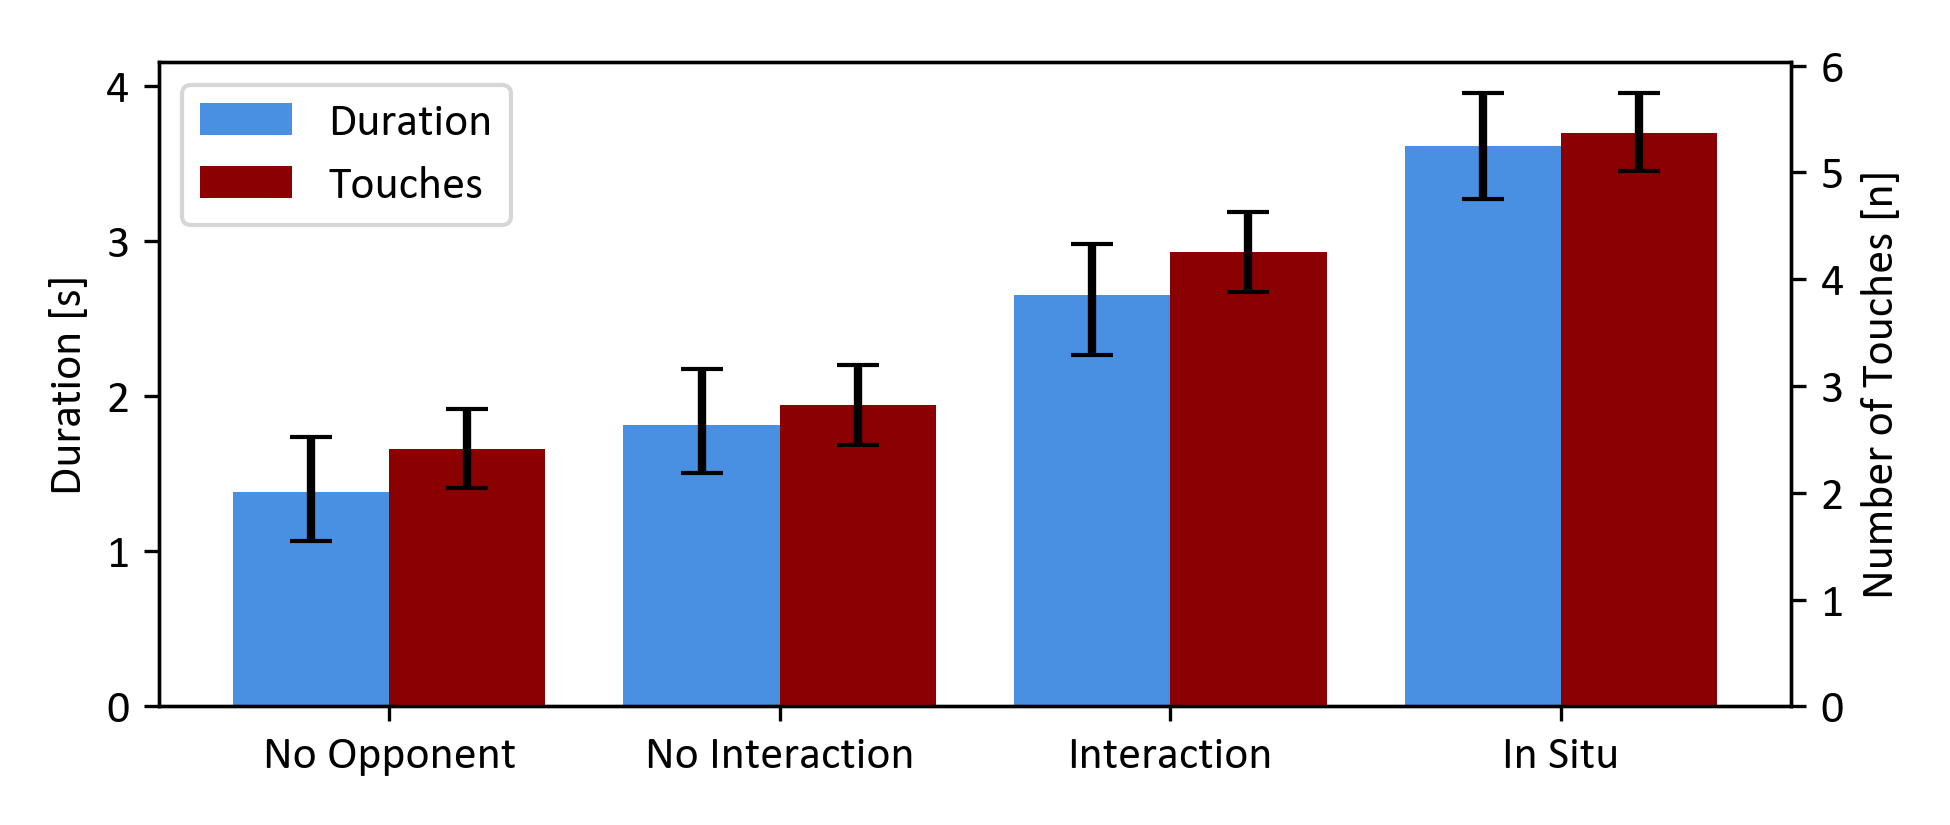
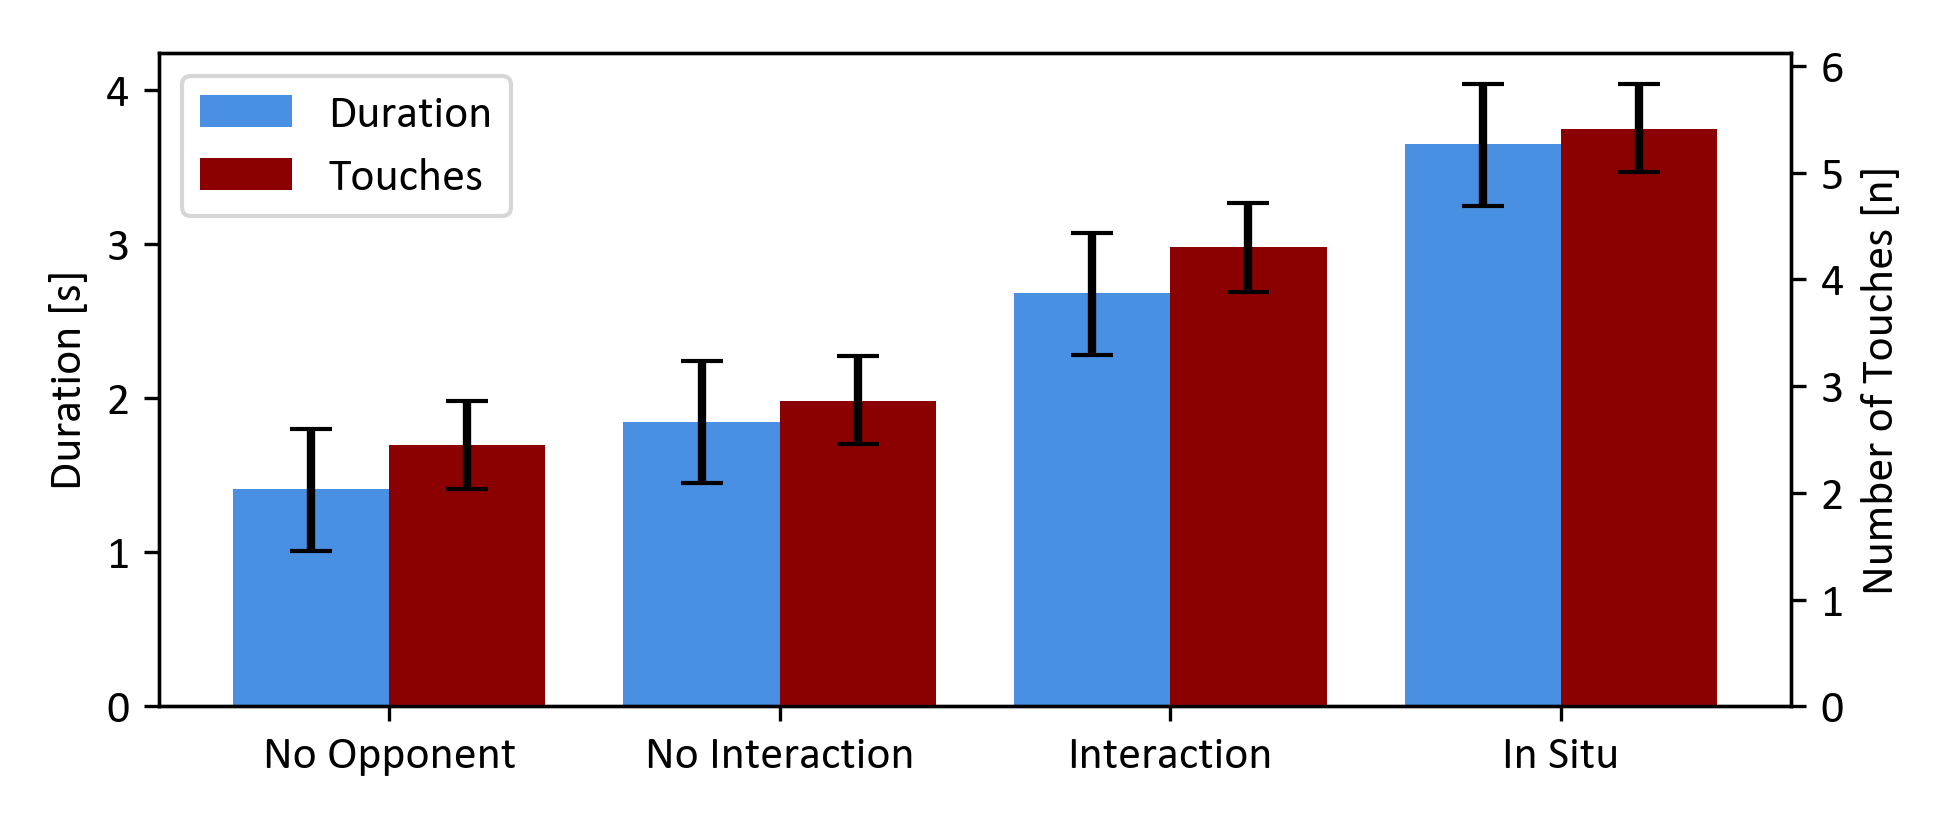
creating table for cluster types

diff --git a/Python.Analysis/src/combined_figures.py b/Python.Analysis/src/combined_figures.py
@@ -1,0 +1,142 @@
+import re
+from pathlib import Path
+
+import arviz as az
+import matplotlib.pyplot as plt
+import numpy as np
+
+from .domain import Condition
+from .persistence import ColumnFormat, Persistence
+
+
+def combined_predictive_and_cluster_figure(
+        duration_model_path: Path,
+        touches_model_path: Path,
+        trials,
+        file_name: Path,
+        persistence: Persistence
+) -> None:
+    duration_results = az.from_netcdf(str(duration_model_path))
+    touches_results = az.from_netcdf(str(touches_model_path))
+
+    duration_samples = duration_results.posterior["C(condition)"].values
+    touches_samples = touches_results.posterior["C(condition)"].values
+
+    duration_samples = duration_samples.reshape(-1, duration_samples.shape[-1]).T
+    touches_samples = touches_samples.reshape(-1, touches_samples.shape[-1]).T
+
+    duration_means = duration_samples.mean(axis=1)
+    touches_means = touches_samples.mean(axis=1)
+
+    duration_lower = np.percentile(duration_samples, 2.5, axis=1)
+    duration_upper = np.percentile(duration_samples, 97.5, axis=1)
+    touches_lower = np.percentile(touches_samples, 2.5, axis=1)
+    touches_upper = np.percentile(touches_samples, 97.5, axis=1)
+
+    conditions = [c.value for c in reversed(Condition)]
+    x_positions = {
+        "NoOpponent": 1.0,
+        "NoInteraction": 2.5,
+        "Interaction": 4.0,
+        "InSitu": 5.5
+    }
+    x_pos = np.array([x_positions[cond] for cond in conditions])
+
+    fig = plt.figure(figsize=(persistence.figure_width(ColumnFormat.DOUBLE), 4.5))
+    fig.subplots_adjust(hspace=0.02, top=0.96, bottom=0.08)
+    gs = fig.add_gridspec(2, 1, height_ratios=[1, 1])
+    fig.subplots_adjust(hspace=0.05)
+
+    ax1 = fig.add_subplot(gs[0])
+    ax2 = ax1.twinx()
+
+    ax1.spines['top'].set_visible(False)
+    ax1.spines['left'].set_visible(False)
+    ax2.spines['top'].set_visible(False)
+    ax2.spines['right'].set_visible(False)
+
+    ax1.bar(x_pos - 0.2, duration_means, 0.4,
+            yerr=[duration_means - duration_lower, duration_upper - duration_means],
+            capsize=5, color='#4A90E2', label='Duration')
+    ax1.set_ylabel('Duration [s]')
+
+    ax2.bar(x_pos + 0.2, touches_means, 0.4,
+            yerr=[touches_means - touches_lower, touches_upper - touches_means],
+            capsize=5, color='#8B0000', label='Touches')
+    ax2.set_ylabel('Number of Touches [n]')
+
+    ax1.set_xticks(x_pos)
+    formatted_labels = [re.sub(r'([a-z])([A-Z])', r'\1 \2', label) for label in conditions]
+    ax1.set_xticklabels(formatted_labels, rotation=0)
+
+    legend_labels_top = ['Duration', 'Touches']
+    legend_colors_top = ['#4A90E2', '#8B0000']
+    legend_handles_top = [
+        plt.Line2D([0], [0], marker='s', linestyle='None', color='none',
+                   markerfacecolor=color, markeredgewidth=0, markersize=8)
+        for color in legend_colors_top
+    ]
+    ax1.legend(
+        legend_handles_top,
+        legend_labels_top,
+        loc='upper left',
+        ncol=2,
+        frameon=False
+    )
+
+    common_xlim = (0.5, 6.0)
+    ax1.set_xlim(common_xlim)
+
+    ax3 = fig.add_subplot(gs[1])
+    ax3.set_anchor('N')
+
+    colors = ['#E0E0E0','#808080', '#000000']
+
+    for condition in reversed(Condition):
+        labels = [trial.cluster_label for trial in trials
+                  if trial.condition == condition and trial.cluster_label is not None]
+        label_set = sorted(set(labels))
+        counts = [labels.count(label) for label in label_set]
+        total = sum(counts)
+        sizes = [count / total * 100 for count in counts]
+        cluster_colors = [colors[label % len(colors)] for label in label_set]
+
+        pie_x = x_positions[condition.value]
+        pie_y = 0.5
+
+        ax3.pie(
+            sizes,
+            labels=None,
+            autopct=None,
+            startangle=90,
+            colors=cluster_colors,
+            wedgeprops=dict(linewidth=0, width=0.3),
+            center=(pie_x, pie_y),
+            radius=0.4
+        )
+
+        formatted_label = re.sub(r'([a-z])([A-Z])', r'\1 \2', condition.value)
+        ax3.text(pie_x, -0.2, formatted_label, ha='center', va='center')
+
+    legend_labels = [f'Cluster {i}' for i in range(3)]
+    legend_colors = [colors[i] for i in range(3)]
+    legend_handles = [
+        plt.Line2D([0], [0], marker='s', linestyle='None', color='none',
+                   markerfacecolor=color, markeredgewidth=0, markersize=8)
+        for color in legend_colors
+    ]
+    ax3.legend(
+        legend_handles,
+        legend_labels,
+        loc='upper center',
+        bbox_to_anchor=(0.5, 0.0),
+        ncol=3,
+        frameon=False
+    )
+
+    ax3.set_xlim(common_xlim)
+    ax3.set_ylim(-0.5, 1.5)
+    ax3.axis('off')
+
+    persistence.save_figure(fig, file_name)
+    plt.close(fig)

diff --git a/Python.Analysis/main.py b/Python.Analysis/main.py
@@ -13,6 +13,7 @@ from src.regressions import (
     duration_and_touches_post_hoc
 )
 from src.descriptive_statistics import table_descriptive_statistics
+from src.combined_figures import combined_predictive_and_cluster_figure
 
 if __name__ == '__main__':
     data_path = "../Data/Experiment/**/*.csv"
@@ -30,15 +31,24 @@ if __name__ == '__main__':
 
     trials = TrialReader.read_trials(data_path)
 
+
     table_descriptive_statistics(trials, Path("descriptive_statistics.docx"), persistence)
 
     regression_duration(trials, Path("model_1.nc"), Path("model_1.txt"), persistence)
     regression_touches(trials, Path("model_2.nc"), Path("model_2.txt"), persistence)
 
-    plot_elbow_method(trials, max_clusters=10, persistence=persistence)
+    plot_elbow_method(trials, max_clusters=10, persistence=persistence, path=Path("elbow_method_results.txt"))
     perform_cluster_analysis(trials, n_clusters=3)
     plot_cluster_distribution(trials, persistence=persistence)
 
     duration_and_touches_table(Path("model_1.nc"), Path("model_2.nc"), Path("model_predictions.docx"), persistence)
     duration_and_touches_predictive_figure(Path("model_1.nc"), Path("model_2.nc"), Path("predictions.png"), persistence)
     duration_and_touches_post_hoc(Path("model_1.nc"), Path("model_2.nc"), Path("ridge_differences.png"), persistence)
+
+    combined_predictive_and_cluster_figure(
+        Path("model_1.nc"),
+        Path("model_2.nc"),
+        trials,
+        Path("combined_figure.png"),
+        persistence
+    )

diff --git a/Python.Analysis/src/clustering/plot_elbow_method.py b/Python.Analysis/src/clustering/plot_elbow_method.py
@@ -10,7 +10,7 @@ from src.persistence import Persistence
 from src.services import DistanceCalculator, TimeCalculator, MovementCalculator
 
 
-def plot_elbow_method(trials: List[Trial], max_clusters: int, persistence: Persistence) -> None:
+def plot_elbow_method(trials: List[Trial], max_clusters: int, persistence: Persistence, path: Path) -> None:
     """
     Plot the elbow method to determine the optimal number of clusters.
     """
@@ -27,10 +27,22 @@ def plot_elbow_method(trials: List[Trial], max_clusters: int, persistence: Persi
     # Remove NaN values
     trial_features = trial_features[~np.isnan(trial_features).any(axis=1)]
 
+    # Calculate total sum of squares
+    total_ss = np.sum((trial_features - np.mean(trial_features, axis=0)) ** 2)
+    
+    # Calculate WCSS and explained variability for each number of clusters
+    results = []
     for i in range(1, max_clusters + 1):
         kmeans = KMeans(n_clusters=i, init='k-means++', random_state=42)
         kmeans.fit(trial_features)
         wcss.append(kmeans.inertia_)
+        
+        # Calculate explained variability
+        explained_var = 1 - (kmeans.inertia_ / total_ss)
+        results.append(f"Clusters: {i}, WCSS: {kmeans.inertia_:.2f}, Explained Variability: {explained_var:.2%}")
+
+    # Save results to text file
+    persistence.save_model("\n".join(results), path)
 
     plt.figure(figsize=(10, 6))
     plt.plot(range(1, max_clusters + 1), wcss)

diff --git a/Python.Analysis/src/regressions/regression_duration.py b/Python.Analysis/src/regressions/regression_duration.py
@@ -56,7 +56,7 @@ def regression_duration(trials: TrialCollection, model_path: Path, model_descrip
     
     if not os.path.exists(str(model_path)):
         results = model_bambi.fit(
-            draws=100,
+            draws=5000,
             chains=4,
             idata_kwargs={"log_likelihood": True},
             random_seed=1991

diff --git a/Python.Analysis/src/regressions/regression_touches.py b/Python.Analysis/src/regressions/regression_touches.py
@@ -56,7 +56,7 @@ def regression_touches(trials: TrialCollection, model_path: Path, model_descript
     
     if not os.path.exists(str(model_path)):
         results = model_bambi.fit(
-            draws=100,
+            draws=5000,
             chains=4,
             idata_kwargs={"log_likelihood": True},
             random_seed=1991
